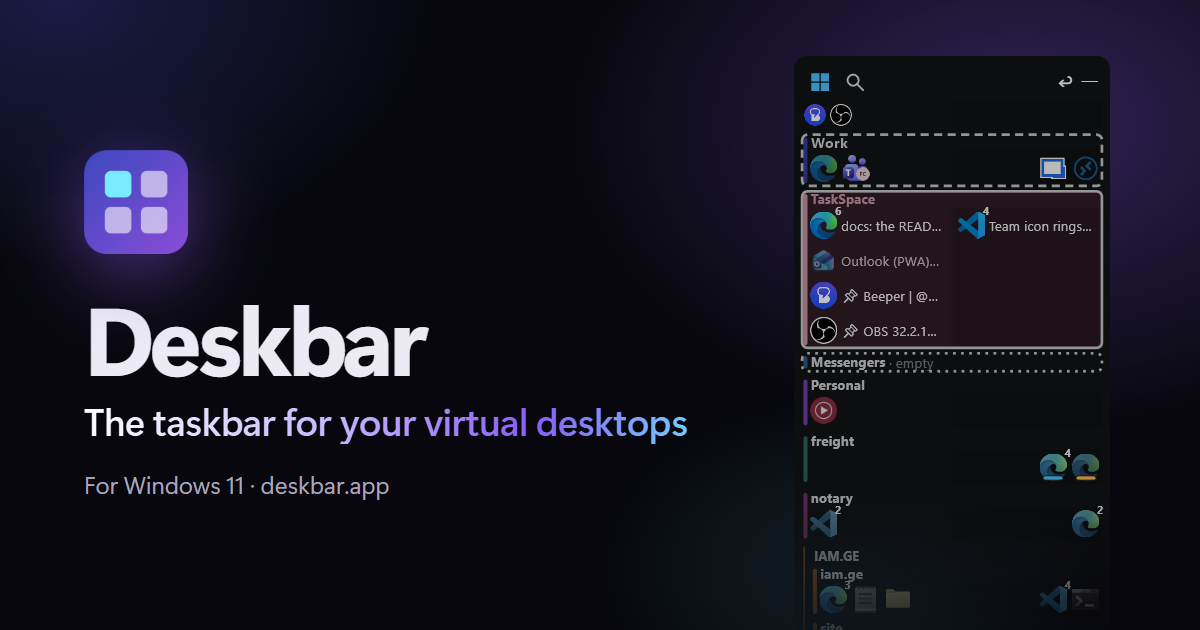
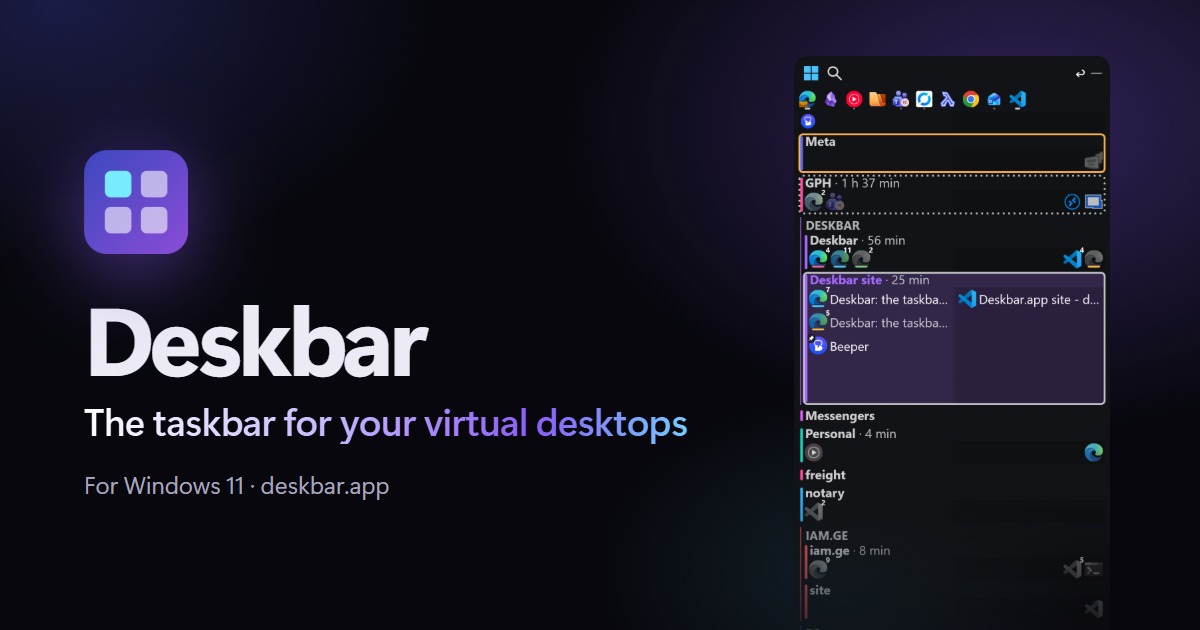
Replace the hero with a sharp capture of the bar
The old hero was a 1x capture shown at 316 points, so every high-DPI screen
stretched it and it looked soft. The new one is a PrintWindow capture of the
live bar at BarScale 1.8 on a 150% display, 950 pixels wide, shipped at
316, 633 and 950 so each screen draws at least one image pixel per screen
pixel.

It was taken mid-chord, so the Meta row wears the amber landing ring, and
it sits in a frame painted like a dark desktop with the chord as keycaps
over the corner. The features now run full width underneath in three
columns. The share card is rebuilt from the same capture.

Before use, the one window title showing a person's name was displayed as
plain "Beeper" through Deskbar's own Rename this window, and the capture is
cropped above the meters and the now-playing line.

*opus5.5*

diff --git a/site/css/home.css b/site/css/home.css
@@ -4,19 +4,19 @@
   live in site.css, which every page loads first.
 */
 
-/* ---- hero and the bar beside it -------------------------------------------------------- */
+/* ---- hero and the framed bar ---------------------------------------------------------- */
 
-/* Two columns on a wide screen: the words on the left, and the bar standing on the right
-   the way it stands at the edge of a real screen, running down past the first features.
-   One column on anything narrower, with the bar between the hero and the features. */
+/* On a wide screen the words sit on the left and the framed bar on the right, with the
+   features full width underneath. On anything narrower it is one column: hero, bar,
+   features. */
 .stage {
   display: grid;
-  grid-template-columns: minmax(0, 1fr) 316px;
+  grid-template-columns: minmax(0, 1fr) auto;
   grid-template-areas:
-    "hero bar"
-    "features bar";
-  column-gap: 80px;
-  padding-top: 88px;
+    "hero shot"
+    "features features";
+  column-gap: 72px;
+  padding-top: 72px;
   position: relative;
   isolation: isolate;
 }
@@ -45,19 +45,19 @@
 
 .hero {
   grid-area: hero;
-  padding-bottom: 72px;
+  align-self: center;
 }
 
-.bar-shot {
-  grid-area: bar;
+.hero-shot {
+  grid-area: shot;
   margin: 0;
   position: relative;
   isolation: isolate;
-  align-self: start;
 }
 
 .features {
   grid-area: features;
+  padding-top: 120px;
 }
 
 @media (max-width: 920px) {
@@ -65,14 +65,18 @@
     grid-template-columns: minmax(0, 1fr);
     grid-template-areas:
       "hero"
-      "bar"
+      "shot"
       "features";
     padding-top: 56px;
   }
 
-  .bar-shot {
+  .hero-shot {
     justify-self: center;
-    margin-bottom: 72px;
+    margin-top: 56px;
+  }
+
+  .features {
+    padding-top: 96px;
   }
 }
 
@@ -126,40 +130,114 @@
   font-weight: 600;
 }
 
-/* The capture is drawn at its own pixel size on purpose: it is a pixel-exact render of the
-   live bar, and scaling would soften every edge. A glow sits behind it in the brand colours,
-   and the capture's own transparent corners let the glow show through. */
-.bar-shot::before {
+/* The framed bar. The capture inside is a real render of the live bar, drawn from 1x, 2x
+   and 3x files (see the srcset in index.html), so it stays sharp on any screen. It sits in
+   a frame painted like a dark desktop, with the brand glow behind it, and fades out at the
+   bottom where the crop ends. */
+.hero-shot::before {
   content: "";
   position: absolute;
-  inset: -4% -55% 8%;
+  inset: -14% -40% -10%;
   z-index: -1;
   background:
-    radial-gradient(40% 30% at 50% 22%, rgb(139 92 246 / 0.55), transparent),
-    radial-gradient(35% 25% at 40% 62%, rgb(79 82 214 / 0.4), transparent),
-    radial-gradient(30% 20% at 60% 88%, rgb(110 231 255 / 0.22), transparent);
-  filter: blur(40px);
+    radial-gradient(40% 32% at 40% 25%, rgb(139 92 246 / 0.55), transparent),
+    radial-gradient(35% 28% at 65% 70%, rgb(110 231 255 / 0.2), transparent),
+    radial-gradient(40% 40% at 50% 92%, rgb(79 82 214 / 0.45), transparent);
+  filter: blur(50px);
 }
 
-.bar-shot img {
+/* The desktop: wallpaper made of two colour fields, a fine border and a deep shadow. */
+.screen {
+  position: relative;
+  padding: 30px 46px 0;
+  border-radius: 24px;
+  overflow: hidden;
+  border: 1px solid rgb(255 255 255 / 0.12);
+  background:
+    radial-gradient(120% 80% at 100% 0%, #3b2a7a 0%, transparent 55%),
+    radial-gradient(90% 70% at 0% 100%, #123a5c 0%, transparent 60%),
+    linear-gradient(160deg, #1a1440, #0b0b1c);
+  box-shadow:
+    0 0 0 1px rgb(0 0 0 / 0.4),
+    0 50px 100px -30px rgb(0 0 0 / 0.9),
+    inset 0 1px 0 rgb(255 255 255 / 0.08);
+}
+
+/* Shown at exactly 316 CSS pixels; never let the layout scale it, or the srcset's
+   one-pixel-per-pixel promise breaks and the softness comes back. */
+.screen img {
   display: block;
   width: 316px;
-  border-radius: 12px;
-  box-shadow:
-    0 0 0 1px rgb(255 255 255 / 0.07),
-    0 40px 80px -20px rgb(0 0 0 / 0.8);
+  max-width: none;
+  height: auto;
+  border-radius: 12px 12px 0 0;
+  box-shadow: 0 0 0 1px rgb(255 255 255 / 0.07), 0 24px 50px rgb(0 0 0 / 0.6);
+  -webkit-mask-image: linear-gradient(#000 80%, transparent);
+  mask-image: linear-gradient(#000 80%, transparent);
 }
 
-.bar-shot figcaption {
-  margin-top: 16px;
+/* The chord being held in the capture, as glassy keycaps over the frame's corner. */
+.chord-chip {
+  position: absolute;
+  right: 18px;
+  bottom: 18px;
+  display: flex;
+  align-items: center;
+  gap: 8px;
+  padding: 12px 14px;
+  border-radius: 16px;
+  background: rgb(12 12 24 / 0.62);
+  border: 1px solid rgb(255 255 255 / 0.14);
+  backdrop-filter: blur(12px);
+  -webkit-backdrop-filter: blur(12px);
   color: var(--faint);
-  font-size: 0.85rem;
-  line-height: 1.5;
-  max-width: 316px;
+  box-shadow: 0 20px 40px -15px rgb(0 0 0 / 0.8);
+}
+
+.chord-chip kbd {
+  display: inline-grid;
+  place-items: center;
+  min-width: 52px;
+  height: 42px;
+  padding: 0 12px;
+  border: 1px solid var(--border-strong);
+  border-bottom-width: 3px;
+  border-radius: 10px;
+  background: #18172a;
+  color: var(--text);
+  font: 600 0.95rem/1 var(--font);
+}
+
+.chord-chip kbd.tap {
+  border-color: rgb(245 181 68 / 0.7);
+  color: var(--amber);
+  box-shadow: 0 0 0 4px rgb(245 181 68 / 0.12);
+}
+
+/* Phones: a slimmer frame so the 316-pixel bar still fits a 360-pixel screen. */
+@media (max-width: 420px) {
+  .screen {
+    padding: 16px 6px 0;
+    border-radius: 18px;
+  }
+
+  .chord-chip {
+    right: 10px;
+    bottom: 10px;
+    padding: 8px 10px;
+    gap: 5px;
+  }
+
+  .chord-chip kbd {
+    min-width: 40px;
+    height: 34px;
+    padding: 0 8px;
+    font-size: 0.82rem;
+  }
 }
 
 /* A placeholder kept for the day the hero capture is swapped or missing. Not used while
-   bar-floating.png is in place, but documented here so nobody invents a fake screenshot. */
+   the bar-hero images are in place, but documented here so nobody invents a fake one. */
 .shot-placeholder {
   display: grid;
   place-items: center;
@@ -203,11 +281,17 @@
 
 .rows {
   display: grid;
-  grid-template-columns: repeat(2, minmax(0, 1fr));
+  grid-template-columns: repeat(3, minmax(0, 1fr));
   gap: 18px;
   margin: 0;
   padding: 0;
   list-style: none;
+}
+
+@media (max-width: 980px) {
+  .rows {
+    grid-template-columns: repeat(2, minmax(0, 1fr));
+  }
 }
 
 @media (max-width: 640px) {
@@ -254,7 +338,7 @@
   margin-top: 12px;
 }
 
-/* A row that spans both columns, for the switcher with its keycaps. */
+/* A row that spans every column, for the switcher with its keycaps and the code sample. */
 .row-wide {
   grid-column: 1 / -1;
 }

diff --git a/site/index.html b/site/index.html
@@ -79,8 +79,9 @@
 
     <main id="main">
       <!--
-        The stage: hero and features on the left, the bar standing on the right. On narrow
-        screens it collapses to one column (see .stage in home.css).
+        The stage: the hero text on the left and the bar, framed like a desktop, on the
+        right; the features run full width underneath. On narrow screens everything stacks
+        into one column (see .stage in home.css).
       -->
       <div class="wrap stage">
         <section class="hero" aria-labelledby="hero-title">
@@ -109,22 +110,33 @@
         </section>
 
         <!--
-          The one screenshot. bar-floating.png comes from docs/images in the Deskbar repo,
-          which holds sanitised captures only. It is shown at its own size on purpose; see
-          .bar-shot in home.css. If it is ever removed, use the .shot-placeholder block, never
-          a made-up capture.
+          The one screenshot: a PrintWindow capture of the live bar at BarScale 1.8 on a 150%
+          display, taken mid-chord (Win+Ctrl held, Tab tapped), so the Meta row wears the
+          amber "you would land here" ring. It was checked for private names before use: the
+          one window title with a person's name was shown as plain "Beeper" through Deskbar's
+          own Rename this window for the capture, and the bar was cropped above its meters
+          and now-playing line.
+
+          The capture is 950 pixels wide and is shown 316 wide, so it is drawn from three
+          sizes: 316 for ordinary screens, 633 for 2x screens, 950 for 3x phones. Every screen
+          gets at least one image pixel per screen pixel, which is what keeps it sharp. If it
+          is ever replaced, replace it with a real capture made the same way, never a made-up
+          one, and keep all three sizes.
         -->
-        <figure class="bar-shot">
-          <img
-            src="/img/bar-floating.png"
-            width="316"
-            height="1114"
-            alt="The floating bar: one row per workspace, each with its name above the icons of every window in it. The current workspace's row is tinted and ringed and lists its windows with their titles; the row you came from is ringed in dashes. Groups of workspaces have a line down their left edge, and along the bottom run the taskbar's pinned apps, a tray chevron, wifi, a volume dial, a bell and the clock."
-          />
-          <figcaption>
-            The floating bar, as it sits on a screen. Every workspace is a row; the current one
-            opens into a list of its windows.
-          </figcaption>
+        <figure class="hero-shot">
+          <div class="screen">
+            <img
+              src="/img/bar-hero-316.png"
+              srcset="/img/bar-hero-316.png 1x, /img/bar-hero-633.png 2x, /img/bar-hero-950.png 3x"
+              width="316"
+              height="659"
+              alt="The bar in the middle of a switch: pinned apps along the top, then one row per workspace with its name above the icons of its windows. The Meta row is ringed in amber as the row Win+Ctrl+Tab would land on, and the current workspace, Deskbar site, is opened into a list of its windows with their titles. Groups of workspaces have a line down their left edge."
+            />
+            <!-- The chord that is being held in the capture, drawn crisp in CSS. -->
+            <div class="chord-chip" aria-hidden="true">
+              <kbd>Win</kbd><span>+</span><kbd>Ctrl</kbd><span>+</span><kbd class="tap">Tab</kbd>
+            </div>
+          </div>
         </figure>
 
         <section class="features" id="features" aria-labelledby="features-title">
@@ -155,6 +167,14 @@
                 before.
               </p>
             </li>
+            <li class="row rail-teal">
+              <h3>Each workspace keeps to itself</h3>
+              <p>
+                While you are in one workspace, its windows are the only ones on your taskbar
+                and the only ones Alt+Tab walks through. A screen share of one workspace shows
+                nothing of the others.
+              </p>
+            </li>
             <li class="row row-wide rail-amber">
               <h3>Switch the way Alt+Tab switches</h3>
               <div class="chord" aria-hidden="true">
@@ -164,14 +184,6 @@
                 Hold Win+Ctrl and tap Tab to walk your workspaces in most-recently-used order,
                 then let go to land. One tap takes you back to wherever you just were, and
                 focus lands on the window you were last using there, so you arrive typing.
-              </p>
-            </li>
-            <li class="row rail-teal">
-              <h3>Each workspace keeps to itself</h3>
-              <p>
-                While you are in one workspace, its windows are the only ones on your taskbar
-                and the only ones Alt+Tab walks through. A screen share of one workspace shows
-                nothing of the others.
               </p>
             </li>
             <li class="row rail-blue">

diff --git a/README.md b/README.md
@@ -13,7 +13,7 @@ is documentation and checks.
 | `site/privacy.html`, `site/terms.html`, `site/refunds.html` | The legal pages the footer links to |
 | `site/404.html` | Served by GitHub Pages for any path that does not exist |
 | `site/css/` | `site.css` for every page, `home.css` for the home page only |
-| `site/img/` | The bar capture and mark from the Deskbar repo, the share image, the Store badge |
+| `site/img/` | The hero capture at 1x, 2x and 3x, the mark, the share image, the Store badge |
 | `site/download/`, `site/source/` and others | Short links, each a page that forwards the browser |
 | `docs/hosting.md` | How the site is hosted: GitHub Pages settings and the DNS at Cloudflare |
 | `.github/workflows/check.yml` | HTML validation and link checking on every pull request |
@@ -32,8 +32,10 @@ npx serve site
 
 - Every claim about the app has to be checkable against the Deskbar README. When unsure,
   leave it out.
-- Screenshots come only from `docs/images` in the Deskbar repo, which holds sanitised
-  captures. Never one that shows a real person's name as a workspace name.
+- Screenshots are real PrintWindow captures of the app, never mock-ups or edited images,
+  and never one that shows a real person's name or a private window title. The hero is
+  captured at `"BarScale": 1.8` on a 150% display and shipped at 1x, 2x and 3x, so it
+  stays sharp on every screen.
 - Deskbar is "source available", never "open source".
 - Nothing loads from another origin. The Content-Security-Policy meta tag in each page blocks
   it anyway, so a third-party script or font fails in the browser rather than shipping.
